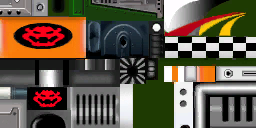
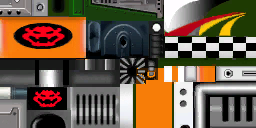
Wii 3D karts: per-driver seats so each sits in the reclined seat, side-pod emblems centred, large-kart body textures

Changed region(s): [[0.5312, 0.5312, 0.6875, 1.0]]

diff --git a/src/kart3d.js b/src/kart3d.js
@@ -3,7 +3,7 @@
 // Small / Medium / Large weight classes are three kart meshes (Toad; Mario, Luigi, Peach, Yoshi; DK, Wario, Bowser)
 // with one body texture per character. The body is Blender Z-up metres, the tires and drivers are Y-up centimetres
 // facing +z; ColladaLoader puts them all in Y-up metres. The rear tires are the front tire meshes scaled up; tire
-// placement is measured from each rip's assembled kart (menu.dae: body + 4 tires). Seats are tuned by eye.
+// placement is measured from each rip's assembled kart (menu.dae: body + 4 tires). Seats: see CHARS.
 import * as THREE from 'three';
 import { ColladaLoader } from 'three/examples/jsm/loaders/ColladaLoader.js';
 
@@ -14,26 +14,26 @@ const SCALE = 1.9;
 const BODY_Y = 0.2;                      // metres the body's origin sits over the ground (all three classes)
 const STEER_ANGLE = 0.45;                // rad the front tires turn at full lock
 // Per class: the body texture its body.dae names (swapped for the character's), the tire mesh's own radius, each
-// axle's half-track / position / tire radius (= axle height) in metres from the body's origin, and where the
-// driver's origin (his seat, the pose sits him) goes in the cockpit.
+// axle's half-track / position / tire radius (= axle height) in metres from the body's origin.
 const CLASSES = {
-  small: { body: 'body_bmr.png', tireRadius: 0.152, tires: [{ x: 0.473, z: 0.25, r: 0.152 }, { x: 0.554, z: -0.53, r: 0.214 }], driver: [0, 0.21, -0.18] },
-  medium: { body: 'body_mr.png', tireRadius: 0.21, tires: [{ x: 0.48, z: 0.55, r: 0.21 }, { x: 0.58, z: -0.43, r: 0.27 }], driver: [0, 0.26, -0.22] },
-  large: { body: 'body_wr.png', tireRadius: 0.21, tires: [{ x: 0.635, z: 0.75, r: 0.21 }, { x: 0.708, z: -0.815, r: 0.317 }], driver: [0, 0.34, -0.29] },
+  small: { body: 'body_bmr.png', tireRadius: 0.152, tires: [{ x: 0.473, z: 0.25, r: 0.152 }, { x: 0.554, z: -0.53, r: 0.214 }] },
+  medium: { body: 'body_mr.png', tireRadius: 0.21, tires: [{ x: 0.48, z: 0.55, r: 0.21 }, { x: 0.58, z: -0.43, r: 0.27 }] },
+  large: { body: 'body_wr.png', tireRadius: 0.21, tires: [{ x: 0.635, z: 0.75, r: 0.21 }, { x: 0.708, z: -0.815, r: 0.317 }] },
 };
-// Per MK64 character: Wii class, body texture, eye texture repeat. The eye textures are one eye; on the Wii a texture
+// Per MK64 character: Wii class, body texture, eye texture repeat, seat. The eye textures are one eye; on the Wii a texture
 // matrix doubles S and the sampler mirrors it (<wrap_s>MIRROR</wrap_s>) so u 0-0.5 is one eye and 0.5-1 its mirror.
 // ColladaLoader drops both, which stretched a single eye across the face. Peach's UVs already run 0-2 and Bowser's
-// texture holds both eyes, so they repeat once.
+// texture holds both eyes, so they repeat once. seat: [y, z] where the driver's origin (the pose sits him) goes in the cockpit, measured
+// so the driver rests in the reclined seat (bottom on the cushion, back on the seat back) instead of floating above it.
 const CHARS = {
-  mario: { cls: 'medium', body: 'body_mr.png' },
-  luigi: { cls: 'medium', body: 'body_lg.png' },
-  peach: { cls: 'medium', body: 'body_pc.png', eyeRepeat: 1 },
-  toad: { cls: 'small', body: 'body_ko.png' },
-  yoshi: { cls: 'medium', body: 'body_ys.png' },
-  donkeykong: { cls: 'large', body: 'body_dk.png' },
-  wario: { cls: 'large', body: 'body_wr.png' },
-  bowser: { cls: 'large', body: 'body_kp.png', eyeRepeat: 1 },
+  mario: { cls: 'medium', body: 'body_mr.png', seat: [0.06, -0.12] },
+  luigi: { cls: 'medium', body: 'body_lg.png', seat: [0.07, -0.14] },
+  peach: { cls: 'medium', body: 'body_pc.png', eyeRepeat: 1, seat: [0.0, -0.06] },
+  toad: { cls: 'small', body: 'body_ko.png', seat: [0.07, 0] },
+  yoshi: { cls: 'medium', body: 'body_ys.png', seat: [0.11, -0.1] },
+  donkeykong: { cls: 'large', body: 'body_dk.png', seat: [0.13, -0.02] },
+  wario: { cls: 'large', body: 'body_wr.png', seat: [0.115, -0.12] },
+  bowser: { cls: 'large', body: 'body_kp.png', eyeRepeat: 1, seat: [0.15, 0.06] },
 };
 
 const cache = new Map();
@@ -75,6 +75,16 @@ function prepare(scene, eyeRepeat) {
       // stripe (ColladaLoader repeats it, which pulled the texture's top rows of other parts onto the bumper)
       if (m.map && m.name === 'mat_body') m.map.wrapT = THREE.MirroredRepeatWrapping;
     }
+    // the side pods' UVs (u 1-1.32, v 0.5-0.78 in all three classes) put the emblem against the panel's top edge with a
+    // band of livery below it: move them 10 texels up the texture so the emblem sits in the middle of the panel
+    const uv = o.geometry.attributes.uv;
+    if (uv && [].concat(o.material).some(m => m.name === 'mat_body')) {
+      for (let i = 0; i < uv.count; i++) {
+        const u = uv.getX(i), v = uv.getY(i);
+        if (u > 1 && u < 1.32 && v > 0.5 && v < 0.78) uv.setY(i, v + 10 / 128);
+      }
+      uv.needsUpdate = true;
+    }
   });
   return scene;
 }
@@ -110,7 +120,7 @@ export async function buildWiiKart(character = 'mario') {
       if (i === 0) fronts.push(steer);
     }
   }
-  driver.position.fromArray(cls.driver);
+  driver.position.set(0, ...ch.seat);
   wii.add(driver);
   g.userData.update = (steer, v, dt) => {
     for (const t of tires) t.spin.rotation.x += v * dt / (t.r * SCALE);
